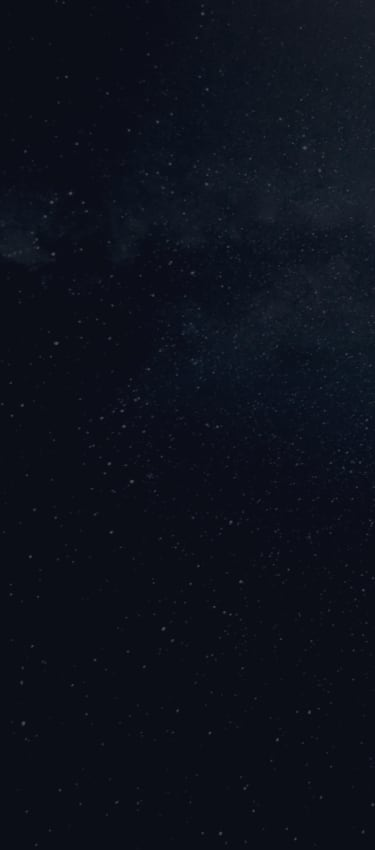
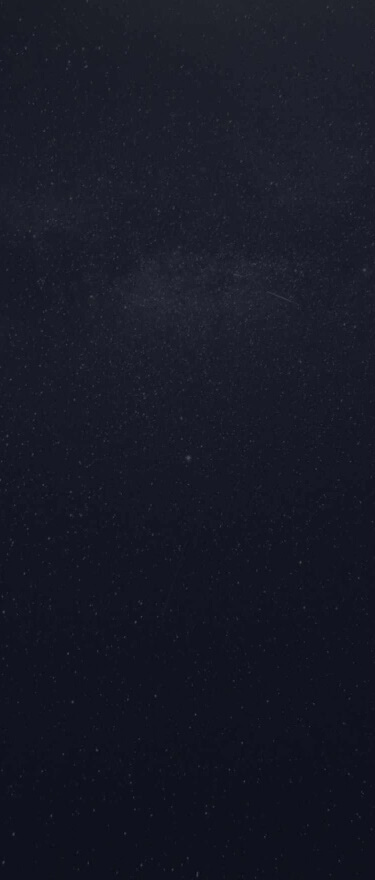
DESTINATION PAGE view

Changed region(s): [[0.3227, 0.2753, 0.704, 0.3671]]

diff --git a/src/views/DestinationView.vue b/src/views/DestinationView.vue
@@ -1,7 +1,206 @@
 <template>
-  <div>Dest</div>
+  <section class="destination-page">
+    <NavbarBasic />
+    <div class="stack wrapper font-barlow-condensed-regular text-center text-color-primary">
+      <h1 class="title text-size-6 tracking-sm uppercase"><span class="opacity-25">01</span>Pick Your Destination</h1>
+      <div class="content-desktop-layout">
+        <div class="img-wrapper">
+          <img v-if="route.hash === '#mars'" src="../assets/destination/image-mars.png" alt="mars image" />
+          <img v-else-if="route.hash === '#europa'" src="../assets/destination/image-europa.png" alt="moon image" />
+          <img v-else-if="route.hash === '#titan'" src="../assets/destination/image-titan.png" alt="mars image" />
+          <img v-else="route.hash === '#moon'" src="../assets/destination/image-moon.png" alt="moon image" />
+        </div>
+        <div class="content">
+          <div class="snap-tabs stack">
+            <nav>
+              <ul class="tabs-navigation">
+                <li
+                  v-for="(destinationName, index) in destinationNames"
+                  :key="index"
+                  class="tabs__nav-item text-size-9 uppercase"
+                >
+                  <a :href="`#${destinationName.toLowerCase()}`">{{ destinationName }}</a>
+                  <span v-show="isTabSelected(destinationName.toLowerCase())" class="active"></span>
+                </li>
+              </ul>
+            </nav>
+            <section class="snap-tabs-x">
+              <article
+                v-for="(destination, index) in destinations"
+                :key="index"
+                :id="destination.name.toLowerCase()"
+                class="stack"
+              >
+                <h2 class="font-bellefair-regular text-size-2 uppercase">{{ destination.name }}</h2>
+                <p class="text-size-9 leading-xl text-color-secondary">
+                  {{ destination.description }}
+                </p>
+                <hr />
+                <dl class="uppercase">
+                  <div>
+                    <dt class="text-color-secondary text-size-9">Avg. destinace</dt>
+                    <dd class="font-bellefair-regular">{{ destination.distance }}</dd>
+                  </div>
+                  <div>
+                    <dt class="text-color-secondary text-size-9">Est. travel time</dt>
+                    <dd class="font-bellefair-regular">{{ destination.travel }}</dd>
+                  </div>
+                </dl>
+              </article>
+            </section>
+          </div>
+        </div>
+      </div>
+    </div>
+  </section>
 </template>
 
-<script setup></script>
+<script setup>
+import { useRoute } from 'vue-router'
+import data from '../data/data.json'
+import NavbarBasic from '@/components/NavbarBasic.vue'
 
-<style scoped></style>
+const route = useRoute()
+
+const destinations = data.destinations
+const destinationNames = destinations.map((destination) => destination.name)
+
+const isTabSelected = (tabName) => {
+  let hash = route.hash
+  if (!hash) {
+    hash = '#moon'
+  }
+  return `#${tabName}` === hash
+}
+</script>
+
+<style scoped>
+.destination-page {
+  background: url(../assets/destination/background-destination-mobile.jpg) var(--blue-900);
+  background-repeat: no-repeat;
+  background-position: center center;
+  background-size: cover;
+  height: 100vh;
+  overflow: auto;
+}
+
+.title > span {
+  margin-inline-end: 1.5rem;
+  opacity: 0.25;
+}
+
+.img-wrapper {
+  padding-block: clamp(1.7906rem, -0.3518rem + 9.1408vw, 7.875rem);
+}
+
+.img-wrapper > img {
+  width: clamp(9.375rem, 1.2446rem + 40.6522vw, 32.75rem);
+  margin-inline: auto;
+}
+
+.content {
+  width: 100%;
+  max-width: 60ch;
+  margin-inline: auto;
+}
+
+.tabs-navigation {
+  list-style: none;
+  display: flex;
+  gap: 2rem;
+  justify-content: center;
+}
+
+.active {
+  display: inline-block;
+  background-color: var(--white);
+  width: 100%;
+  height: 3px;
+}
+
+.tabs__nav-item > a {
+  display: flex;
+  gap: var(--size-300);
+  text-decoration: none;
+  letter-spacing: 2px;
+  color: var(--white);
+}
+
+.tabs__nav-item > a:visited {
+  color: var(--white);
+}
+
+.snap-tabs-x {
+  display: flex;
+  overflow: hidden;
+}
+
+.snap-tabs-x > article {
+  flex-grow: 1;
+  flex-shrink: 0;
+  flex-basis: 100%;
+}
+
+dl {
+  display: flex;
+  flex-direction: column;
+  gap: 1.5rem;
+  align-items: center;
+}
+
+dt {
+  letter-spacing: 2px;
+  margin-block-end: 0.75rem;
+}
+
+dd {
+  font-size: 1.75rem;
+}
+
+@media (min-width: 768px) {
+  .destination-page {
+    background-image: url(../assets/destination/background-destination-tablet.jpg);
+  }
+
+  dl {
+    flex-direction: row;
+    align-items: center;
+    justify-content: space-evenly;
+  }
+}
+
+@media (min-width: 1024px) {
+  .destination-page {
+    background-image: url(../assets/destination/background-destination-desktop.jpg);
+  }
+
+  .tabs-navigation {
+    justify-content: start;
+  }
+
+  dl {
+    justify-content: start;
+  }
+
+  .content {
+    margin-inline: 0;
+  }
+
+  .title {
+    text-align: start;
+  }
+
+  .img-wrapper {
+    padding-block: 0;
+  }
+
+  .content-desktop-layout {
+    text-align: start;
+    padding-block: 8.25rem;
+    display: flex;
+    align-items: center;
+    justify-content: space-between;
+    gap: 2rem;
+  }
+}
+</style>

diff --git a/src/views/HomeView.vue b/src/views/HomeView.vue
@@ -23,7 +23,7 @@ import NavbarBasic from '../components/NavbarBasic.vue'
 .home-page {
   background-image: url(../assets/home/background-home-mobile.jpg);
   background-repeat: no-repeat;
-  background-position: top center;
+  background-position: center center;
   background-size: cover;
   background-attachment: fixed;
   height: 100vh;
@@ -76,17 +76,17 @@ import NavbarBasic from '../components/NavbarBasic.vue'
   }
 
   .home-page-grid {
-    margin-block-start: 128px;
     gap: 3rem;
   }
 }
 
-@media (min-width: 1440px) {
+@media (min-width: 1024px) {
   .home-page {
     background-image: url(../assets/home/background-home-desktop.jpg);
   }
 
   .home-page-grid {
+    margin-block-start: 128px;
     grid-template-columns: auto 1fr;
   }
 

diff --git a/src/css/properties.css b/src/css/properties.css
@@ -7,6 +7,7 @@
   --size-650: clamp(1.125rem, 0.8169rem + 1.3146vw, 2rem);
   --size-700: clamp(1.9994rem, 1.7816rem + 0.9292vw, 2.6179rem);
   --size-800: clamp(2.8271rem, 2.3311rem + 2.1163vw, 4.2358rem);
+  --size-850: clamp(3.5rem, 2.6197rem + 3.7559vw, 6rem);
   --size-900: clamp(3.9976rem, 2.992rem + 4.2906vw, 6.8535rem);
   --size-1000: clamp(5rem, 3.5915rem + 6.0094vw, 9rem);
   /* maximun line width */

diff --git a/src/css/utils.css b/src/css/utils.css
@@ -21,6 +21,10 @@
   font-size: var(--size-1000);
 }
 
+.text-size-2 {
+  font-size: var(--size-850);
+}
+
 .text-size-3 {
   font-size: var(--size-800);
 }
@@ -46,6 +50,10 @@
 }
 
 .tracking {
+  letter-spacing: 0.15rem;
+}
+
+.tracking-sm {
   letter-spacing: 0.15rem;
 }
 

diff --git a/src/components/NavbarBasic.vue b/src/components/NavbarBasic.vue
@@ -69,7 +69,7 @@ function paddedNumber(num) {
 }
 
 .logo {
-  width: var(--size-800, 2.5rem);
+  width: clamp(2.5rem, 2.0229rem + 2.0356vw, 3rem);
 }
 
 .nav {

diff --git a/src/css/layout.css b/src/css/layout.css
@@ -9,7 +9,7 @@
   margin-block: 0;
 }
 
-.stack * + * {
+.stack > * + * {
   margin-block-start: var(--size-600, 1.5rem);
 }
 

diff --git a/src/services/API.js b/src/services/API.js
@@ -1,0 +1,4 @@
+// export const getDestinations = async () => {
+//   const data =
+
+// }
